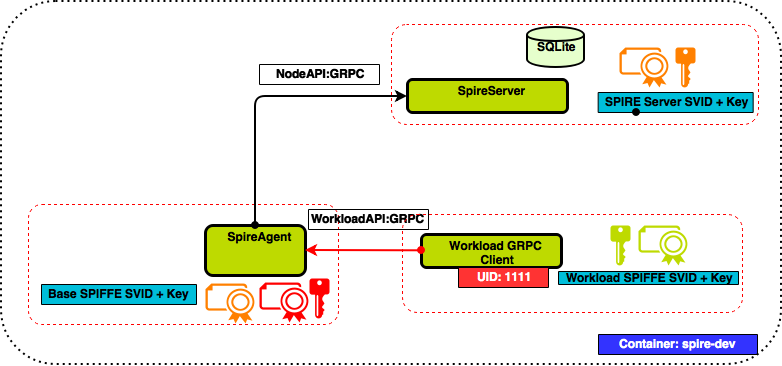
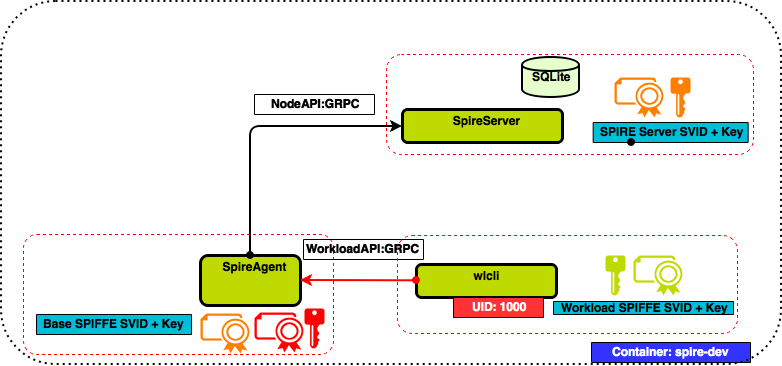
Update SPIRE101.md

Changed region(s): [[0.0307, 0.0601, 0.9821, 0.9617], [0.7366, 0.9016, 0.9821, 0.9918]]

diff --git a/doc/SPIRE101.md b/doc/SPIRE101.md
@@ -1,11 +1,10 @@
 
 
-# Overview
+## Overview
 
 This walkthrough will guide you through the steps needed to setup a running example of a SPIRE server and agent. Interaction with the [Workload API](../proto/api/workload/workload.proto) will be simulated via a command line tool.
 
- 
- ![SPIRE101](images/SPIRE101.png) (Change diagram -- wlcli) 
+ ![SPIRE101](images/spire101.png) 
 
 ## Requirement(s)
 
@@ -58,7 +57,7 @@ Note: If you don't already have Docker installed, please follow these [installat
 	
 	    useradd -u 1000 workload
 
-5.  Install external dependencies of SPIRE by running the **vendor** target
+5.  Install external dependencies of SPIRE by running the **vendor** target.
 	
 	    make vendor
 
@@ -70,7 +69,11 @@ Note: If you don't already have Docker installed, please follow these [installat
 	
 	    ./cmd/spire-server/spire-server register --help
 
-8.  The default server configurations are shown below. A detailed description of each of the server configuration option is [here](/README.md#spire-server-configuration)
+8.  View the server configuration file.
+    	 
+    	    cat conf/server/server.conf
+    
+    The default server configurations are shown below. A detailed description of each of the server configuration option is [here](/README.md#spire-server-configuration)
     
     ```
     BaseSVIDTTL = 999999
@@ -84,10 +87,6 @@ Note: If you don't already have Docker installed, please follow these [installat
     Umask = ""
     ```
 
-	View the server configuration file.
-	 
-	    cat conf/server/server.conf
-
 9.  Start the spire-server as a background process by running the following command.
 
         ./cmd/spire-server/spire-server run &
@@ -98,9 +97,13 @@ Note: If you don't already have Docker installed, please follow these [installat
 	    
 	 The join token will be used for node attestation and the associated spiffeID will be used to generate the SVID of the attested node. 
 	 
-	 The join tokens have a default ttl value of 600 seconds which is configurable. Run ./cmd/spire-server/spire-server token generate --help 
+	 The join tokens have a default ttl value of 600 seconds which is configurable through **-ttl** option.
 
-11. The default agent configurations are shown below. A detailed description of each of the agent configuration option is [here](/README.md#spire-agent-configuration)
+11. View the configuration file of the agent
+    	
+        cat conf/agent/agent.conf
+    
+    The default agent configurations are shown below. A detailed description of each of the agent configuration option is [here](/README.md#spire-agent-configuration)
     ```
     BindAddress = "127.0.0.1"
     BindPort = "8088"
@@ -114,9 +117,6 @@ Note: If you don't already have Docker installed, please follow these [installat
     TrustDomain = "example.org"
     Umask = ""
     ```
-    To view the configuration file of the agent
-	
-	    cat conf/agent/agent.conf
 
 12. Start the spire-agent as a background process by replacing **_<generated-join-token>_** with the generated join token in step #10 and running the following command.
 
@@ -125,7 +125,6 @@ Note: If you don't already have Docker installed, please follow these [installat
 13. The next step is to register a Spiffe ID with a set of selectors. For the example we will use unix kernel selectors that will be mapped to a target SPIFFE ID.
    	
         ./cmd/spire-server/spire-server register -parentID spiffe://example.org/host -spiffeID spiffe://example.org/host/workload -selector unix:uid:1000
-        
     At this point, the registration API has been called and the target workload has been registered with the SPIRE Server. We can now call the workload API using a command line program to request a new SVID from the SPIRE server.
 
 14. Simulate the workload API interaction and retrieve the workload SVID bundle by running the wlcli commandline program. Run wlcli as user **_workload_** created in step #4 with uid 1000
